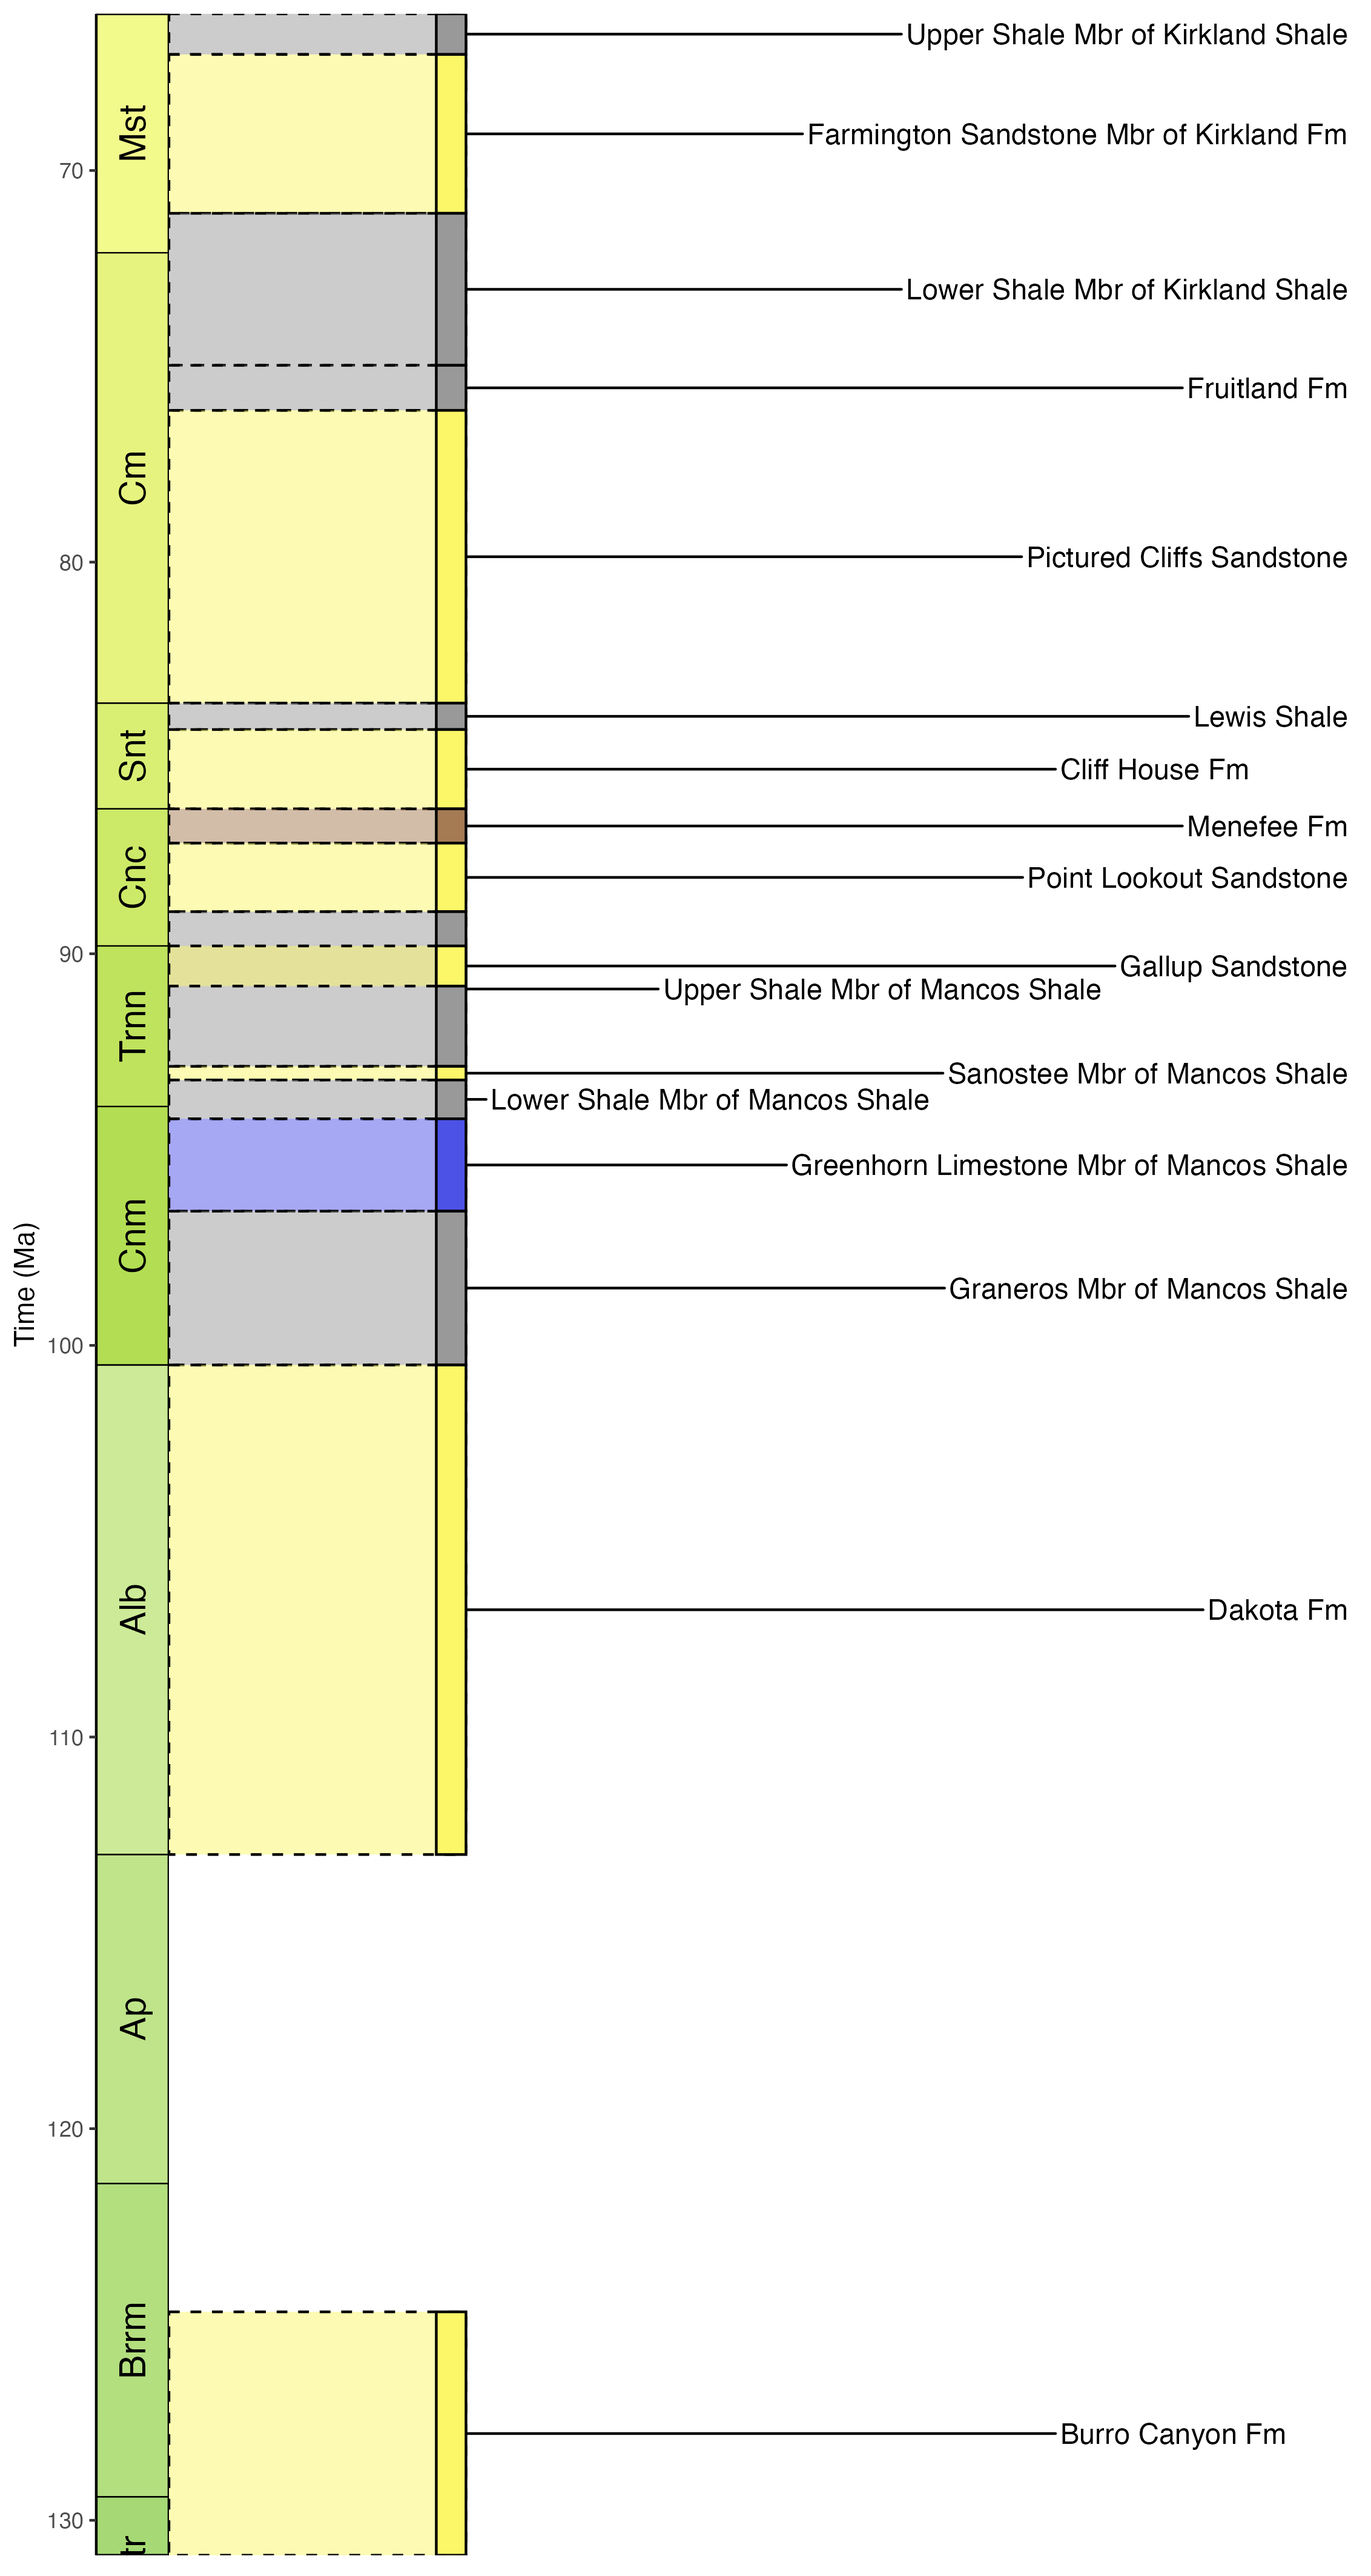
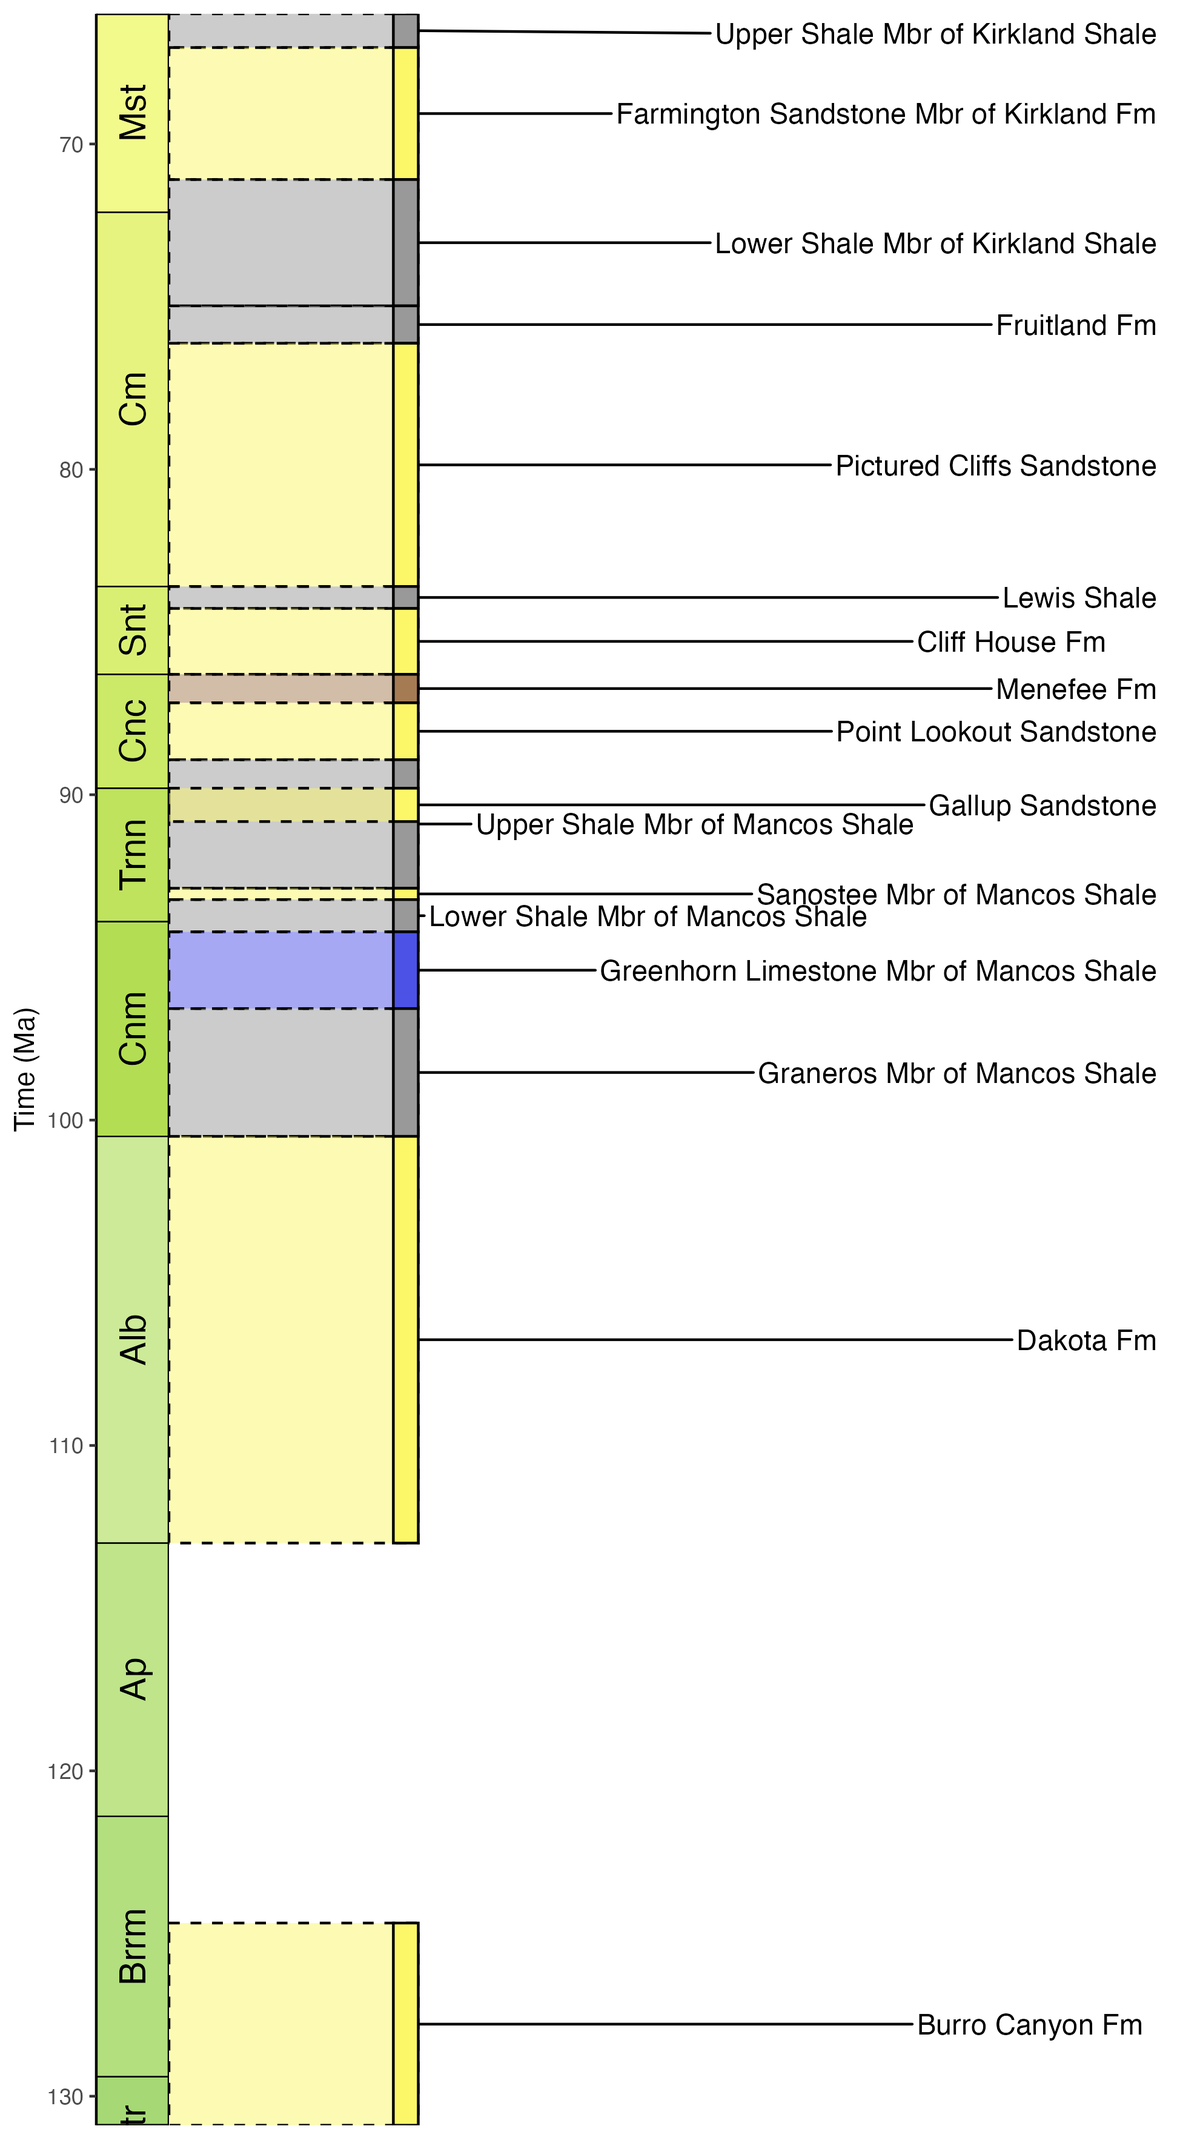
update README

diff --git a/README.md b/README.md
@@ -32,6 +32,48 @@ devtools::install_github("palaeoverse/rmacrostrat")
 
 ## Example usage
 
+A minimal example of getting and plotting a stratigraphic column for the San Juan Basin:
+
+```r
+# Load packages
+library(rmacrostrat)
+library(ggplot2)
+library(ggrepel)
+library(deeptime)
+# Get the column definition of the San Juan Basin
+column_def <- def_columns(column_name = "San Juan Basin")
+# Using the column ID, retrieve all units of Cretaceous age
+units <- get_units(column_id = column_def$col_id,
+                   interval_name = "Cretaceous")
+# Add midpoint age for plotting
+units$m_age <- (units$b_age + units$t_age) / 2
+# Plot stratigraphic column
+ggplot(units, aes(ymin = b_age, ymax = t_age, xmin = 0, xmax = 1)) +
+  # Plot units
+  geom_rect(alpha = 0.5, fill = units$color, color = "black",
+            linetype = 2) +
+  # Add text labels
+  geom_text_repel(aes(x = 1, y = m_age, label = unit_name),
+                  size = 4, hjust = 0,
+                  min.segment.length = 0, direction = "x",
+                  nudge_x = rep_len(x = c(2, 3), length.out = 17)) +
+  # Add additional unit rectangles
+  geom_rect(aes(ymin = b_age, ymax = t_age, xmin = 0.9, xmax = 1),
+            fill = units$color, color = "black") +
+  # Reverse direction of y-axis
+  scale_y_reverse(n.breaks = 10, name = "Time (Ma)") +
+  # Theming
+  theme_classic() +
+  theme(legend.position = "none",
+        axis.line.x = element_blank(),
+        axis.title.x=element_blank(),
+        axis.text.x=element_blank(),
+        axis.ticks.x=element_blank()) +
+  # Add geological time scale
+  coord_geo(pos = "left", dat = list("stages"), rot = 90)
+```
+![](setup/strat_column.png)
+
 A minimal example of getting and plotting outcrop data for the Hell Creek formation:
 
 ```r
@@ -102,5 +144,5 @@ Jones, L.A., Gearty, W., Dean, C.D., Allen, B.J. 2024. rmacrostrat: An R package
 
 </p>
 
-<p align="left"; style="font-size:11px">Hexlogo by XXX</p>
+<p align="left"; style="font-size:11px">Hexlogo by Miranta Kouvari</p>
 
